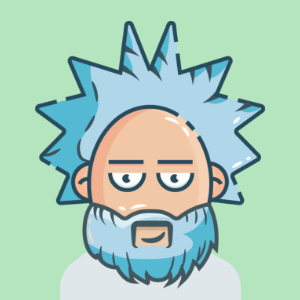
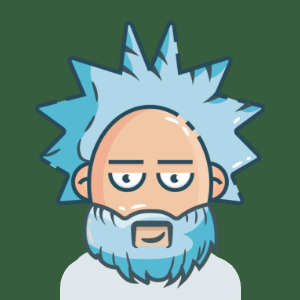
Update gatsby-starter-chronoblog-hacker from Ganevru/gatsby-theme-chronoblog

diff --git a/src/gatsby-plugin-theme-ui/index.js b/src/gatsby-plugin-theme-ui/index.js
@@ -5,14 +5,20 @@ export default {
   initialColorMode: 'dark',
   colors: {
     ...chronoblogTheme.color,
-    text: '#eaeaea',
-    background: '#0e0f17',
-    muted: '#161b1d',
+    text: '#222',
+    background: '#fff',
     link: '#3d7e9a',
     primary: '#f5cd79',
     secondary: '#f7d794',
+    muted: '#f7f7f7',
     modes: {
-      ...chronoblogTheme.colors.modes
+      ...chronoblogTheme.colors.modes,
+      dark: {
+        ...chronoblogTheme.colors.modes.dark,
+        text: '#eaeaea',
+        background: '#0e0f17',
+        muted: '#161b1d'
+      }
     }
   },
   fontSizes: [14, 16, 18, 20, 22, 24, 28, 36],

diff --git a/src/gatsby-theme-chronoblog/components/layout.js b/src/gatsby-theme-chronoblog/components/layout.js
@@ -1,0 +1,15 @@
+// import Container from 'gatsby-theme-chronoblog/src/components/container';
+import Footer from 'gatsby-theme-chronoblog/src/components/footer';
+import Header from 'gatsby-theme-chronoblog/src/components/header';
+import Root from 'gatsby-theme-chronoblog/src/components/root';
+import React from 'react';
+
+export default ({ children }) => {
+  return (
+    <Root>
+      <Header />
+      {children}
+      <Footer />
+    </Root>
+  );
+};

diff --git a/README.md b/README.md
@@ -30,7 +30,6 @@ Read more about Chronoblog Gatsby Theme here: [github.com/ganevru/gatsby-theme-c
 - A simple change of primary and secondary colors of the site, fonts, radius of curvature of elements, etc (thanks to Theme UI theming)
 - Clean and Universal UI
 - Mobile friendly, all elements and custom images are adapted to any screen
-- Light/Dark mode (Dark by default)
 - Easy customization of icons and links to your social networks
 - MDX for the main menu of the site, footer and other elements of the site
 - MDX for pages and content
